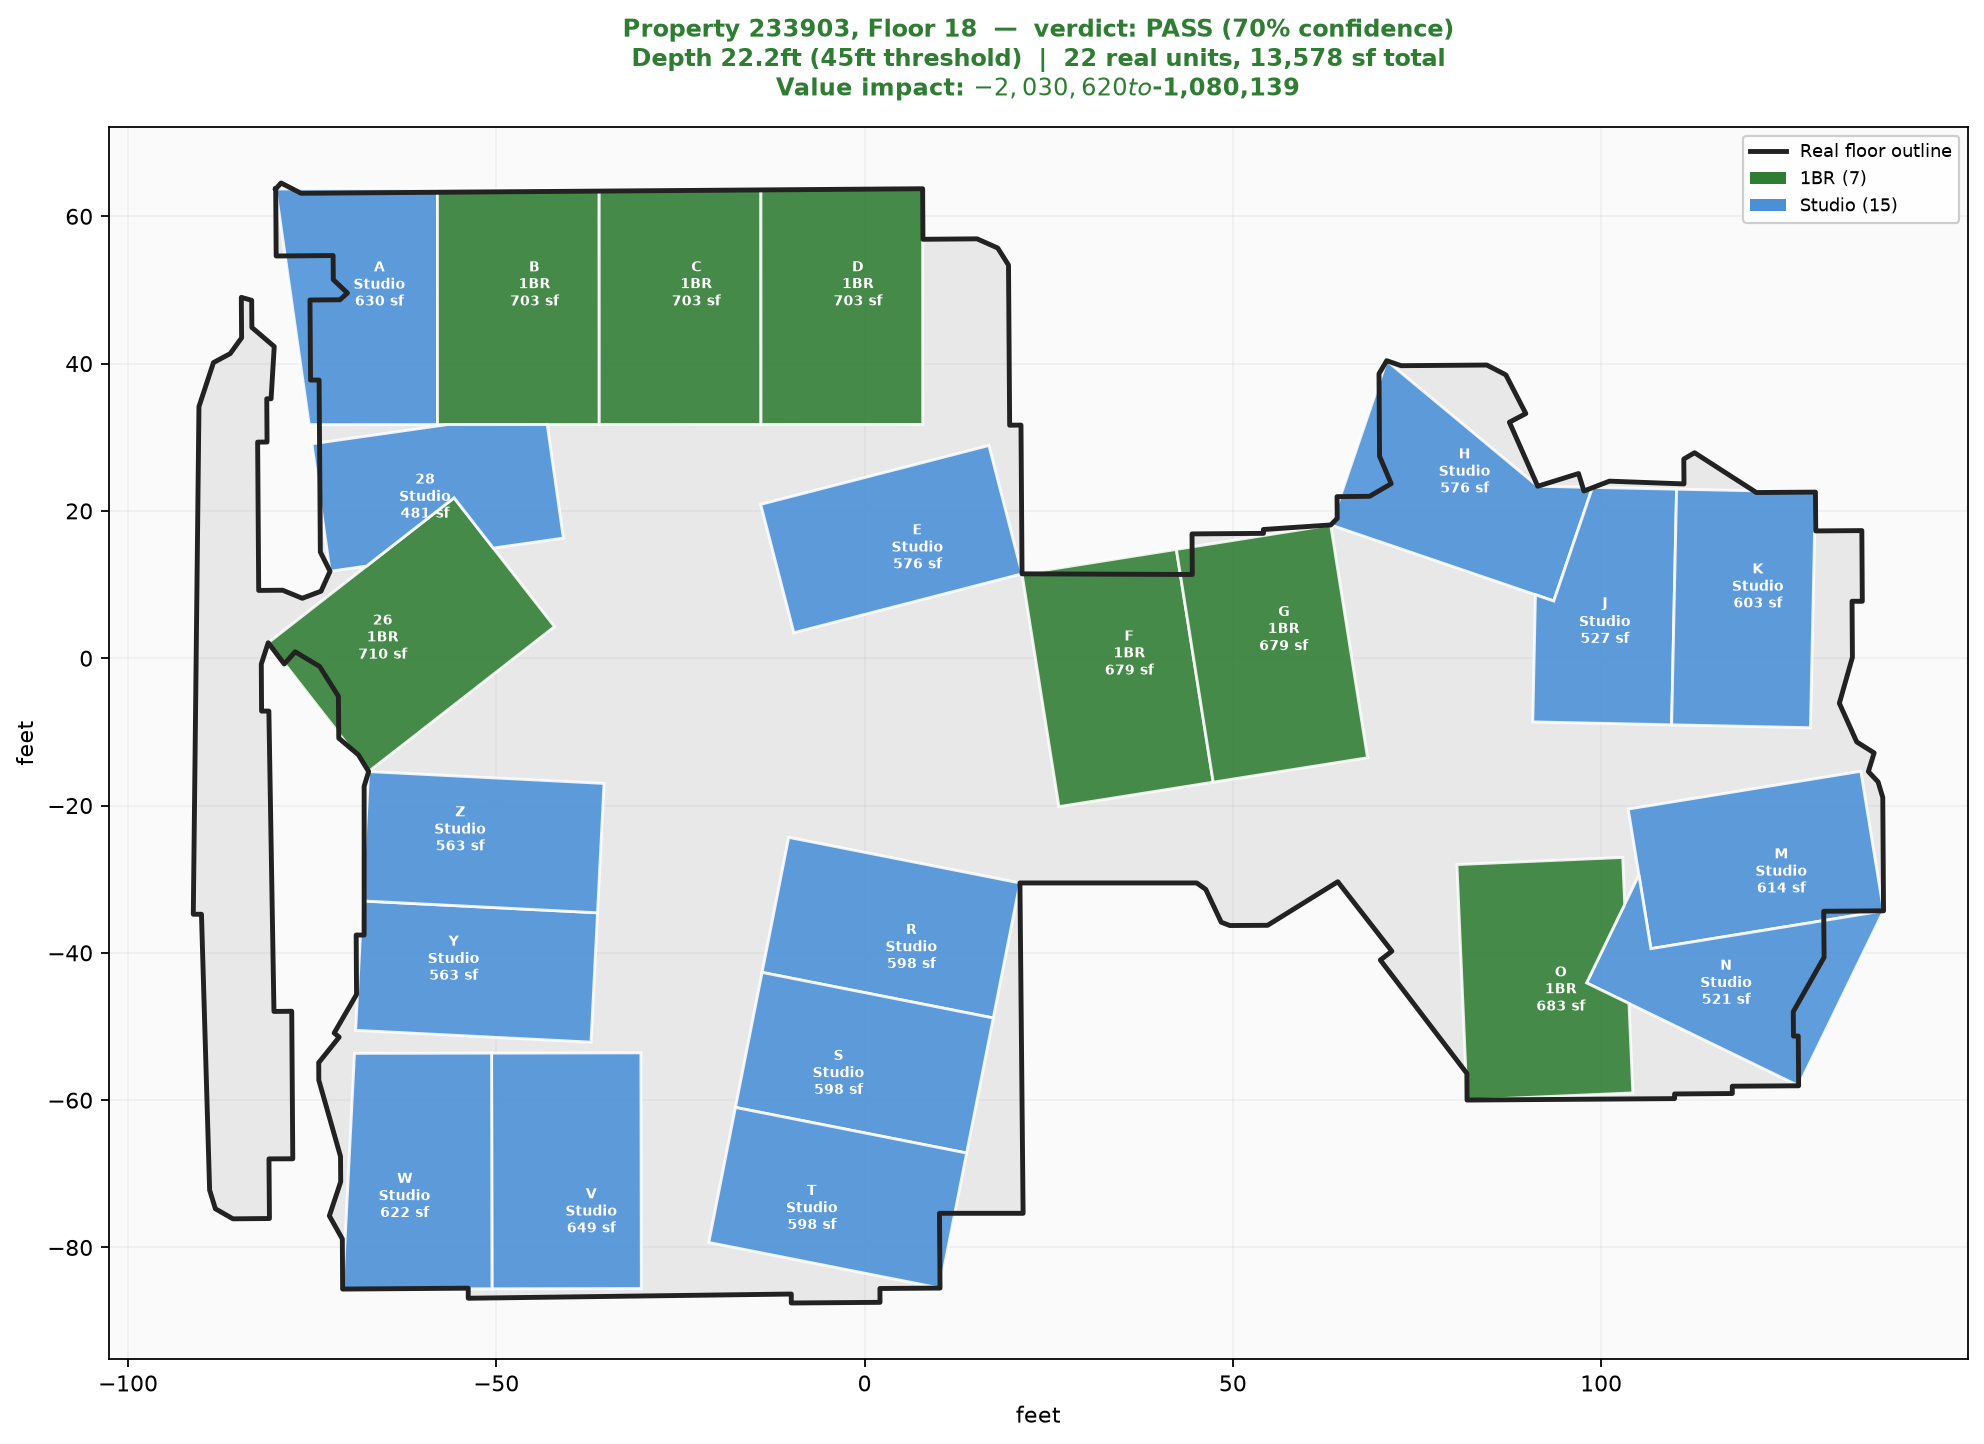
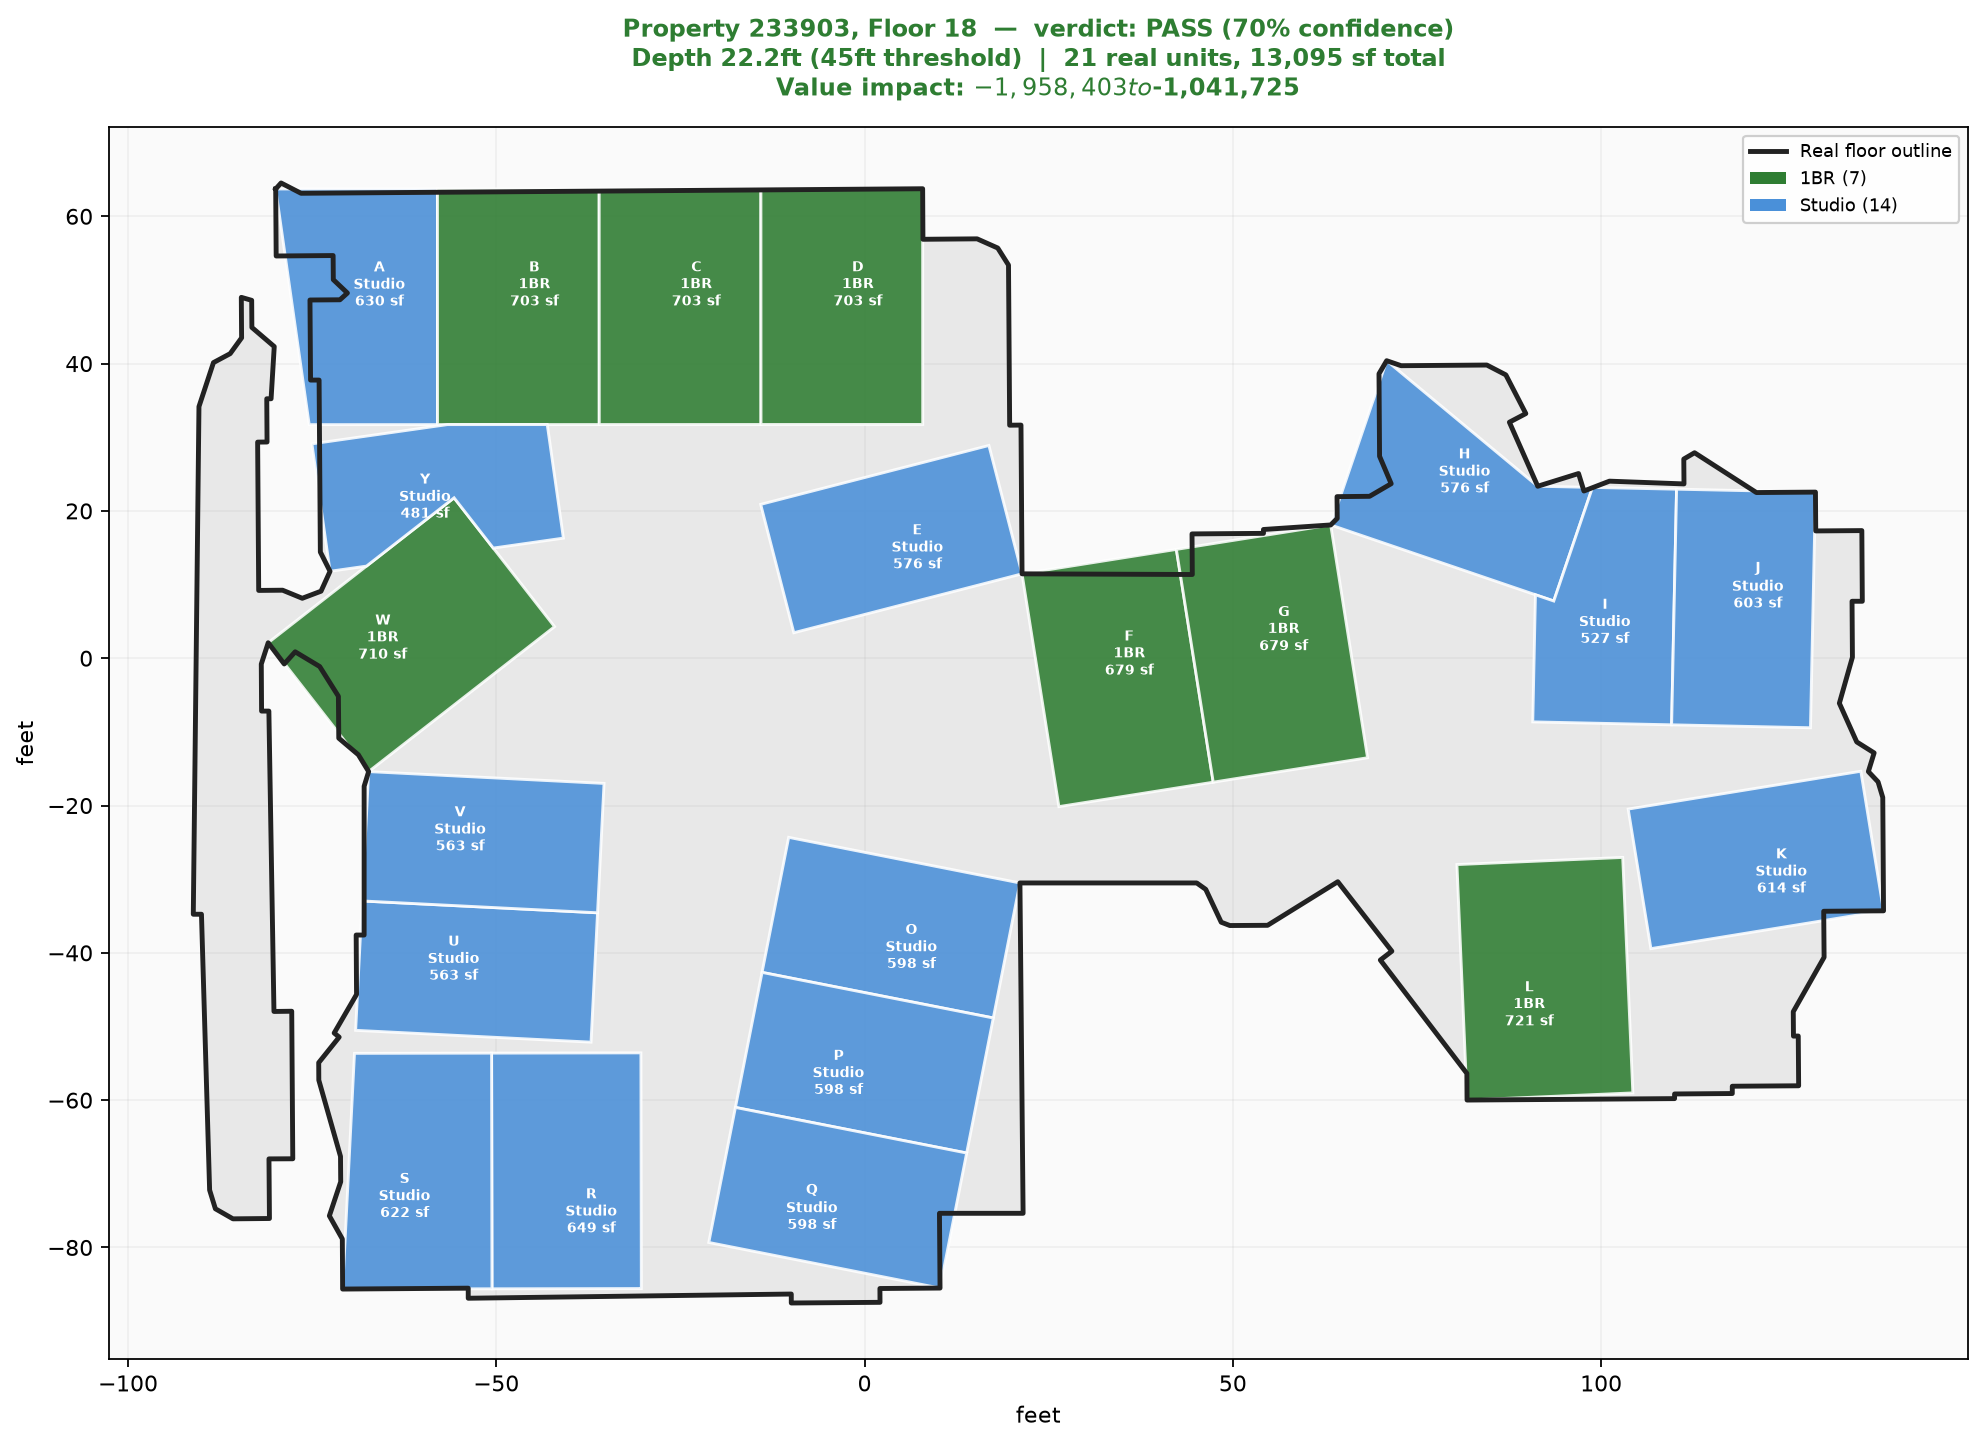
Fix spike-shaped unit artifacts, harden the LLM agent with real error handling
- Geometry: raise the rectangularity rejection threshold 0.55 -> 0.72.
  A real screenshot caught a thin spike/tail unit still passing through
  at a building corner; checked all 10 buildings and found the same
  artifact in 4 others (0.61-0.70 range), with a clear gap before the
  next legitimate trapezoidal unit at 0.76+. Re-rendered and confirmed
  visually clean with no verdict regressions.
- Agent: run_agent_llm no longer uses a bare `except Exception`. Added
  AgentError for user-safe messages, retry-with-backoff only for
  genuinely transient failures (rate limit, connection, 5xx) - never for
  auth/bad-request, which would just fail identically every retry -
  and tool functions now return an error string to the model instead
  of crashing the whole run. webapp.py surfaces AgentError cleanly
  instead of a raw exception string.

Changed region(s): [[0.75, 0.6233, 0.9688, 0.7479], [0.625, 0.0312, 0.6875, 0.0623], [0.5312, 0.0312, 0.5625, 0.0623]]

diff --git a/track_c_agent/agent.py b/track_c_agent/agent.py
@@ -161,6 +161,10 @@ TOOLS = [
 ]
 
 
+class AgentError(Exception):
+    """Raised with a message safe to show a user - never a raw SDK traceback."""
+
+
 def run_agent_llm(property_id: int, floor_name: int, vexcel_response: dict, query_lat: float,
                    query_lon: float, real_floor_area_sqft: float, real_column_depth_ft: float | None) -> dict:
     """Lets Claude decide the tool-call sequence itself, rather than following
@@ -171,24 +175,62 @@ def run_agent_llm(property_id: int, floor_name: int, vexcel_response: dict, quer
     what arguments, and the real tool result it got back. This is what makes
     it provably agentic for a demo: the UI can show the model's own decisions,
     not a pre-written Python string dressed up as reasoning."""
+    import random
+    import time
+
     import anthropic
 
-    client = anthropic.Anthropic()
+    api_key = "".join(os.environ.get("ANTHROPIC_API_KEY", "").split())
+    if not api_key:
+        raise AgentError("ANTHROPIC_API_KEY is not set in this process's environment.")
+
+    client = anthropic.Anthropic(api_key=api_key, timeout=60.0)
 
     def call_run_geometry(args):
-        geo = run_feasibility(
-            floor_id=f"{property_id}-floor-{args['floor_name']}", vexcel_response=vexcel_response,
-            query_lat=query_lat, query_lon=query_lon, real_floor_area_sqft=real_floor_area_sqft,
-            real_column_depth_ft=real_column_depth_ft,
-        )
-        return json.dumps(asdict(geo), default=str)
+        try:
+            geo = run_feasibility(
+                floor_id=f"{property_id}-floor-{args['floor_name']}", vexcel_response=vexcel_response,
+                query_lat=query_lat, query_lon=query_lon, real_floor_area_sqft=real_floor_area_sqft,
+                real_column_depth_ft=real_column_depth_ft,
+            )
+            return json.dumps(asdict(geo), default=str)
+        except Exception as e:
+            # Hand the model a real error string instead of crashing the
+            # whole run - a tool failing is something the agent should be
+            # able to reason about and report, not something that should take
+            # down the request.
+            return json.dumps({"error": f"run_geometry failed: {e}"})
 
     def call_run_value(args):
-        val = run_value(property_id=property_id, floor_name=args["floor_name"],
-                         convertible_sqft=args["convertible_sqft"], query_lat=query_lat, query_lon=query_lon)
-        return json.dumps(asdict(val), default=str)
+        try:
+            val = run_value(property_id=property_id, floor_name=args["floor_name"],
+                             convertible_sqft=args["convertible_sqft"], query_lat=query_lat, query_lon=query_lon)
+            return json.dumps(asdict(val), default=str)
+        except Exception as e:
+            return json.dumps({"error": f"run_value failed: {e}"})
 
     tool_fns = {"run_geometry": call_run_geometry, "run_value": call_run_value}
+
+    def create_with_retry(**kwargs):
+        """Retries only on genuinely transient failures (rate limit, server
+        overload, connection blip) - never on a bad request or auth failure,
+        which would just fail identically every time."""
+        max_retries = 4
+        for attempt in range(max_retries + 1):
+            try:
+                return client.messages.create(**kwargs)
+            except anthropic.AuthenticationError as e:
+                raise AgentError(f"Anthropic API rejected the key (401): {e}") from e
+            except anthropic.PermissionDeniedError as e:
+                raise AgentError(f"Anthropic API permission denied: {e}") from e
+            except anthropic.BadRequestError as e:
+                raise AgentError(f"Anthropic API rejected the request: {e}") from e
+            except (anthropic.RateLimitError, anthropic.APIConnectionError, anthropic.InternalServerError) as e:
+                if attempt == max_retries:
+                    raise AgentError(f"Anthropic API still failing after {max_retries} retries: {e}") from e
+                wait = min(2 ** attempt, 20) + random.random()
+                time.sleep(wait)
+        raise AgentError("Unreachable")  # loop always returns or raises above
 
     messages = [{
         "role": "user",
@@ -206,7 +248,7 @@ def run_agent_llm(property_id: int, floor_name: int, vexcel_response: dict, quer
 
     trace = []
     for _ in range(5):  # bounded loop, not infinite
-        response = client.messages.create(
+        response = create_with_retry(
             model="claude-sonnet-5-5", max_tokens=1024, tools=TOOLS, messages=messages,
         )
         messages.append({"role": "assistant", "content": response.content})

diff --git a/demo/webapp.py b/demo/webapp.py
@@ -36,7 +36,7 @@ from flask import Flask, jsonify, request, send_from_directory
 from vexcel_live import fetch_vexcel_property, VexcelKeyMissing, VexcelNoPropertyData  # noqa: E402
 from value import list_houston_office_buildings_broad  # noqa: E402
 from render_floor import render, BUILDINGS as CACHED_BUILDINGS  # noqa: E402
-from agent import run_agent_llm  # noqa: E402
+from agent import run_agent_llm, AgentError  # noqa: E402
 
 app = Flask(__name__, static_folder=None)
 
@@ -215,8 +215,13 @@ def api_analyze_agent():
             query_lat=lat, query_lon=lon, real_floor_area_sqft=real_floor_area_sqft,
             real_column_depth_ft=real_column_depth_ft,
         )
+    except AgentError as e:
+        # A clean, already-user-safe message (auth/rate-limit/bad-request) -
+        # the retry logic inside run_agent_llm already absorbed transient
+        # failures, so anything surfacing here is worth showing as-is.
+        return jsonify({"error": "agent_failed", "message": str(e)}), 502
     except Exception as e:
-        return jsonify({"error": "agent_failed", "message": str(e)}), 500
+        return jsonify({"error": "agent_failed", "message": f"Unexpected error: {e}"}), 500
 
     timeline.append({"step": "Live LLM agent run - the model chose its own tool-call sequence",
                       "elapsed_s": round(time.time() - t0, 2)})

diff --git a/track_a_geometry/geometry.py b/track_a_geometry/geometry.py
@@ -348,7 +348,15 @@ def generate_unit_layout(footprint: Polygon, convertible_zone, unit_width_ft: fl
             # next wall's edge gets a clean shot at that same corner instead.
             bounding_rect = unit_poly.minimum_rotated_rectangle
             rectangularity = unit_poly.area / bounding_rect.area if bounding_rect.area else 0.0
-            if rectangularity < 0.55:
+            # 0.55 was too lenient - a real screenshot caught a thin spike/tail
+            # still passing through at a building corner (First Community
+            # Tower unit K, 0.684). Checked across all 10 buildings: there's a
+            # real cluster of similar corner-spike shapes at 0.61-0.70 in four
+            # other buildings too, and a gap before the next-lowest legitimate
+            # trapezoidal unit at 0.764 - so 0.72 cuts precisely between the
+            # spike artifacts and real (just angled) units, confirmed by
+            # re-rendering and re-inspecting both groups after raising it.
+            if rectangularity < 0.72:
                 continue
 
             remaining = remaining.difference(quad)
